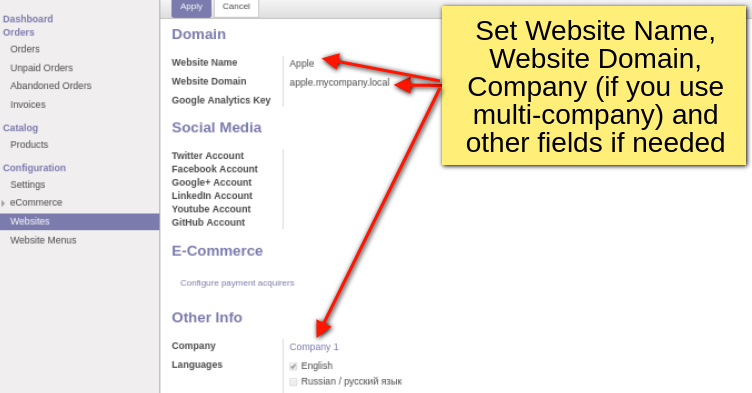
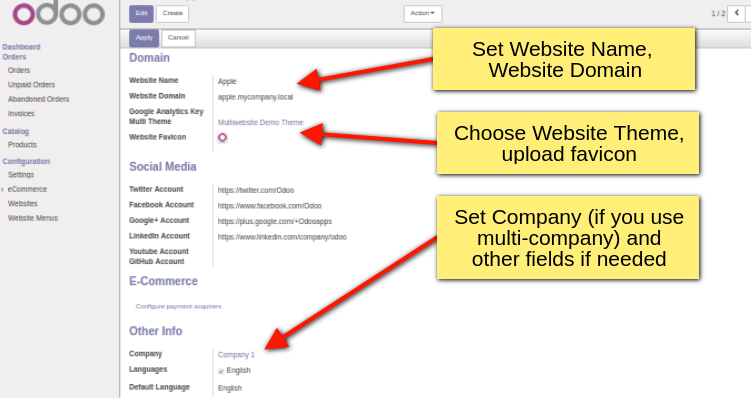
[DOC] Updated docs

diff --git a/website_multi_company/static/description/index.html b/website_multi_company/static/description/index.html
@@ -83,12 +83,12 @@
   <div class="oe_row oe_spaced">
     <div class="oe_span12 text-center">
       <p class="oe_mt32">
- 		<font size="3px">In the website creation form specify Website Name, Website Domain (e.g. <em>apple.mycompany.local, samsung.mycompany.local, etc</em>) and other fields if needed. Also you will be able to specify company name if your user has ``Multi Companies`` access rights.
+ 		<font size="3px">In the website creation form specify Website Name, Website Domain (e.g. <em>apple.mycompany.local, samsung.mycompany.local, etc</em>), choose Website Theme you wish, upload a favicon and other fields if needed. Also you will be able to specify company name if your user has ``Multi Companies`` access rights.
 </font>
       </p>		
     </div>
     <div class="oe_row_img oe_centered">
-      <img class="oe_demo oe_picture oe_screenshot" src="website_form.png"/>
+      <img class="oe_demo oe_picture oe_screenshot" src="website_form.png?1"/>
     </div>
    </div>
 </section>
